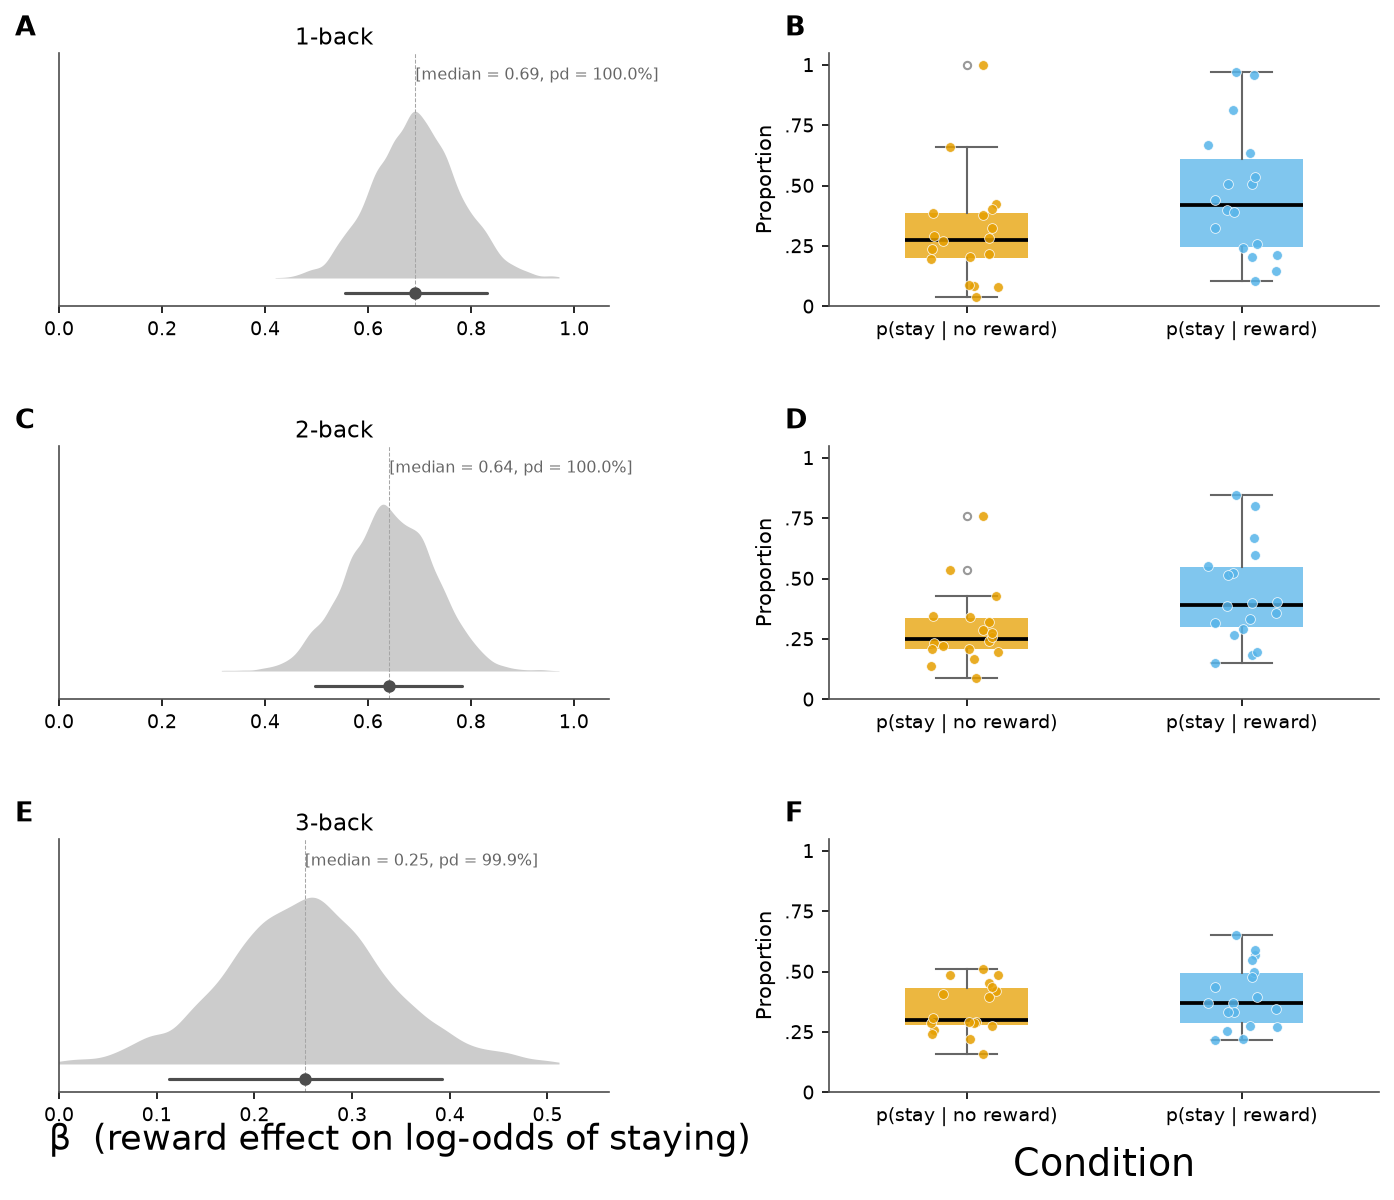
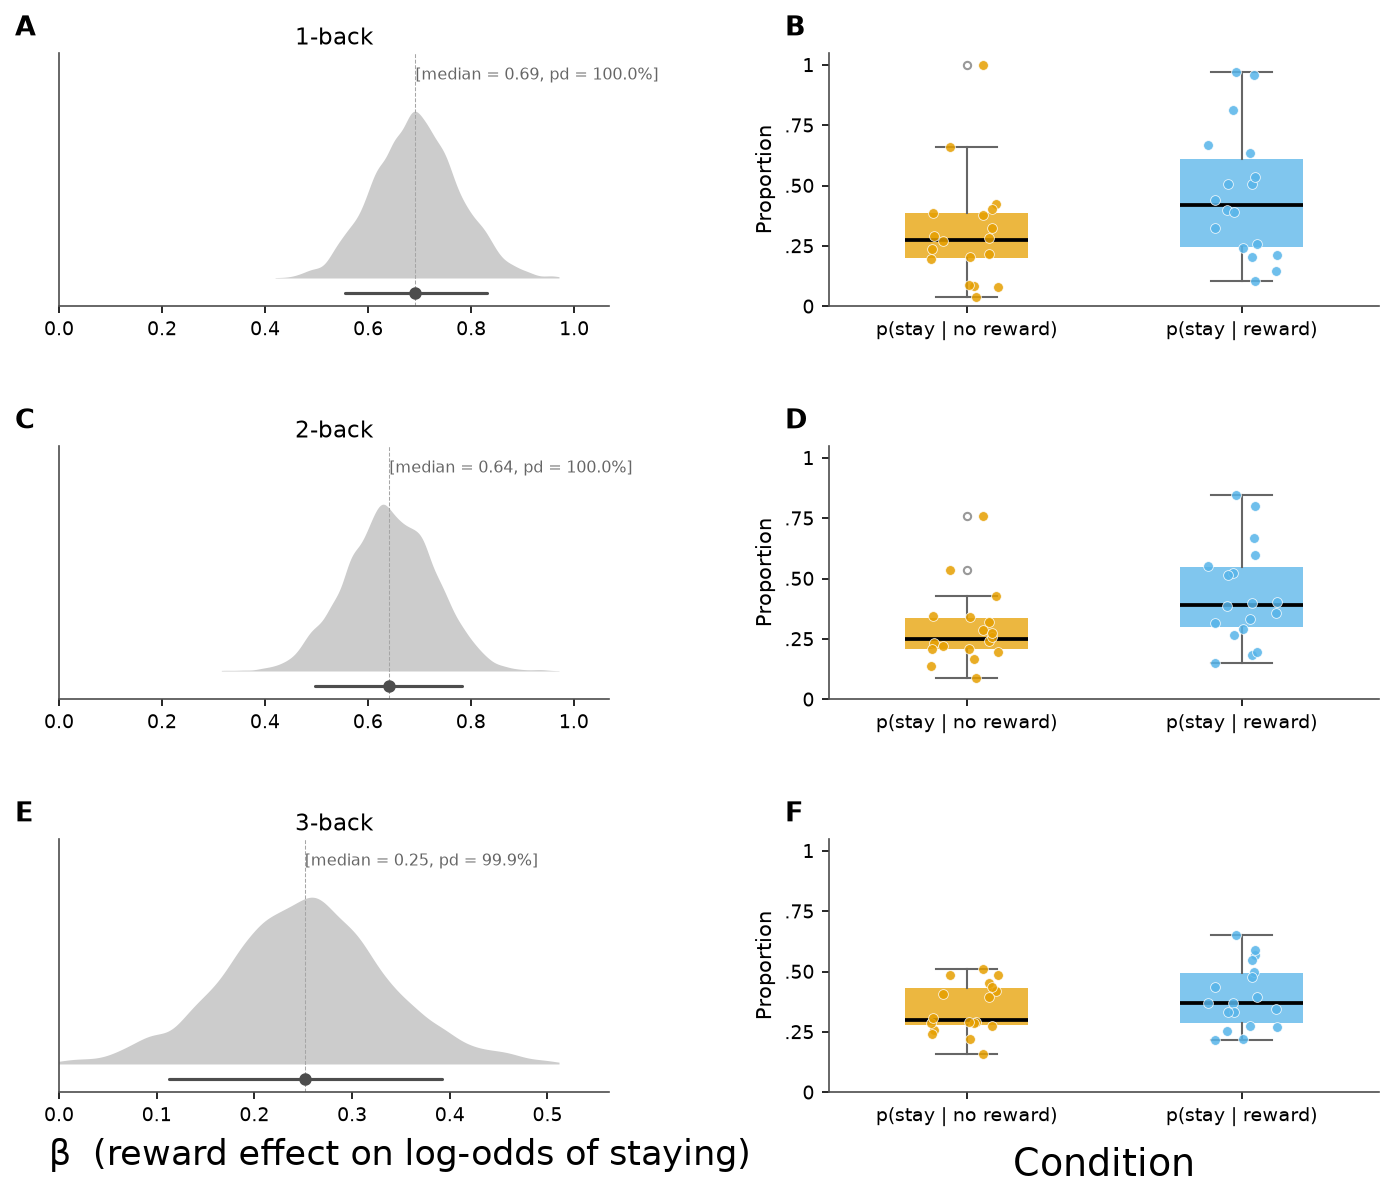
Lower left panel xlabel to align with right panel
Claude-Session: https://claude.ai/code/session_012x9xnxMCjZRKf3pY757v2o

Changed region(s): [[0.0308, 0.925, 0.5552, 0.9867]]

diff --git a/analysis/wsls_pilot/run_wsls_pilot.py b/analysis/wsls_pilot/run_wsls_pilot.py
@@ -136,7 +136,7 @@ def beta_panel(ax, beta_draws, lag_label, add_xlabel=False):
     ax.set_title(lag_label, fontsize=BASE_FS, pad=4)
     if add_xlabel:
         ax.set_xlabel("β  (reward effect on log-odds of staying)", fontsize=17, labelpad=10)
-        ax.xaxis.set_label_coords(0.62, -0.12)
+        ax.xaxis.set_label_coords(0.62, -0.18)
 
     ax.spines["top"].set_visible(False)
     ax.spines["right"].set_visible(False)
